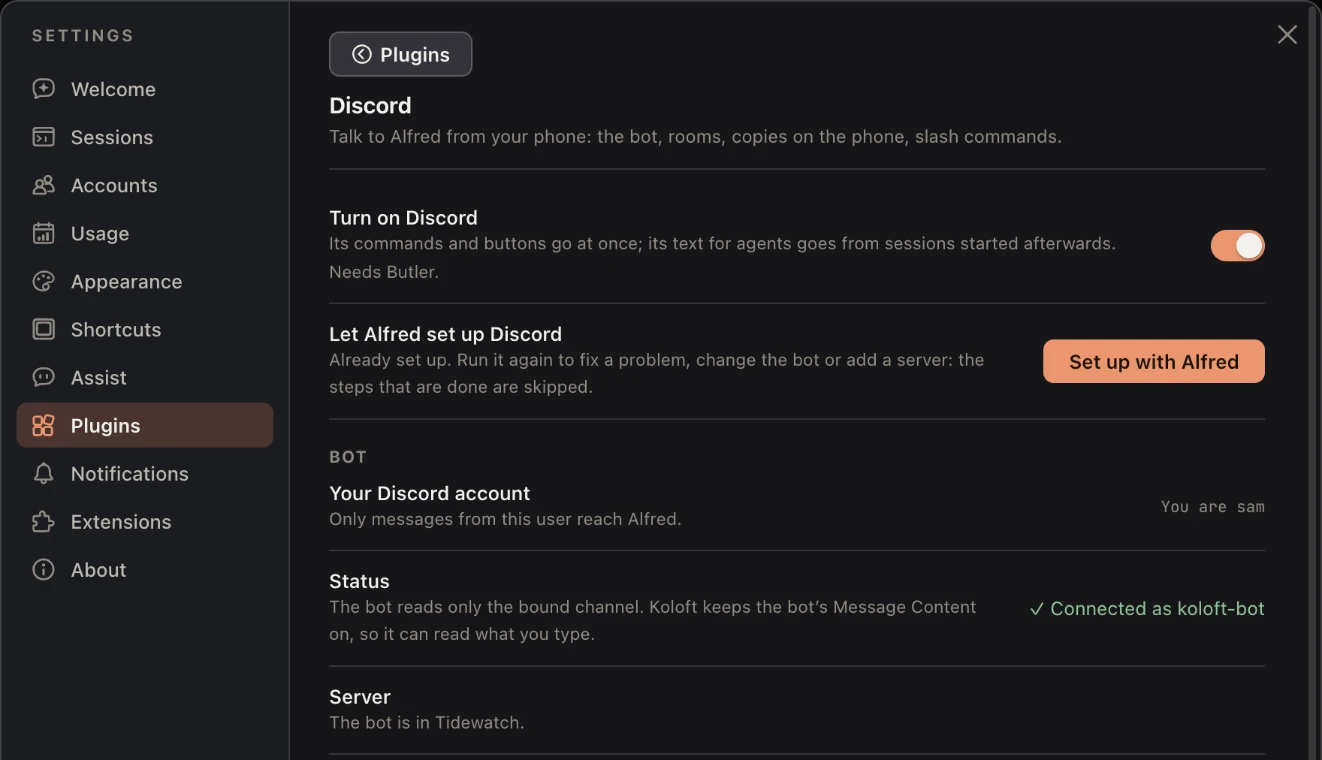
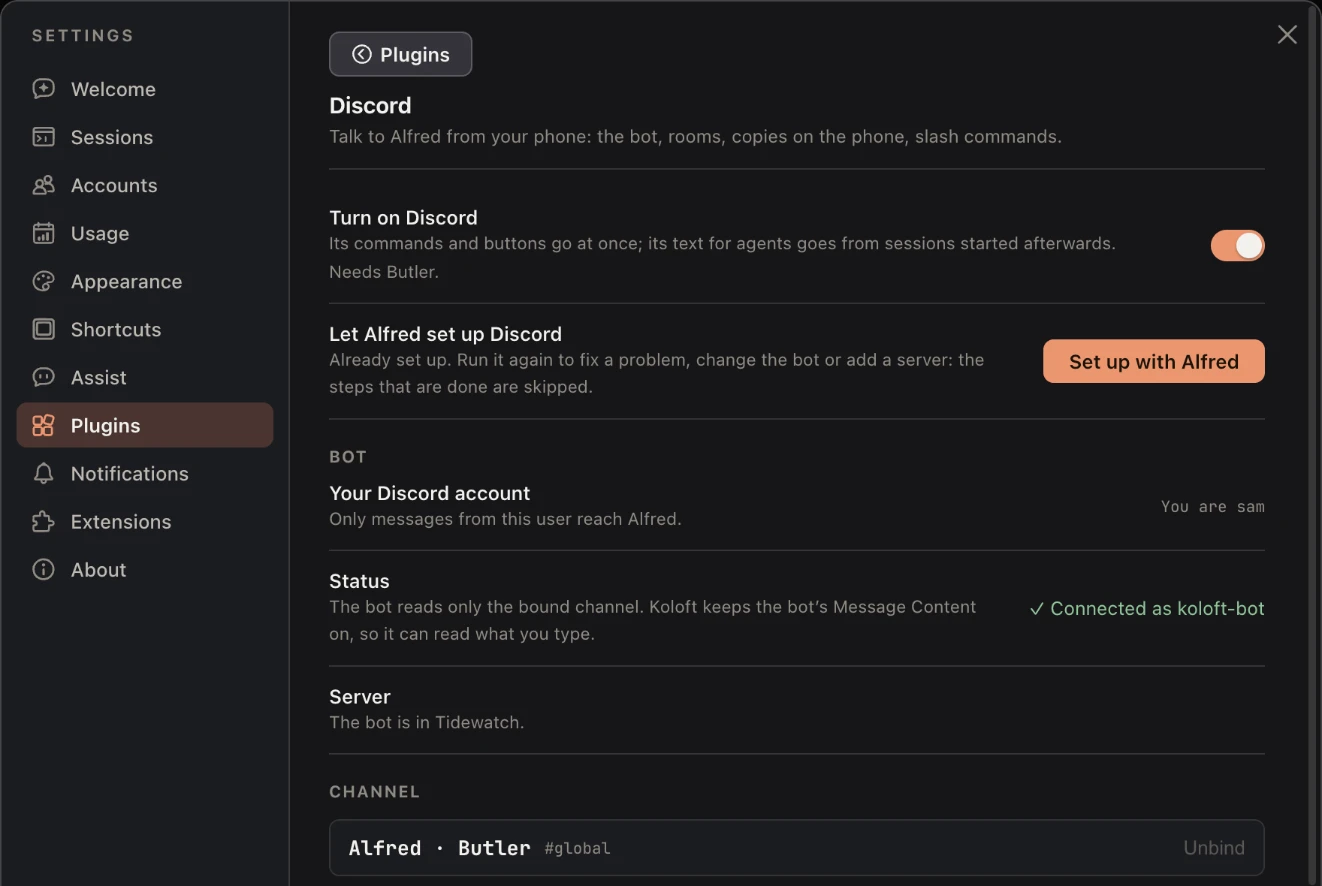
docs(site): review fixes: Plugins gets its own section, folder Instructions its own item, the ⏸ mark on any light, new Discord and phone Usage shots

diff --git a/site/sessions/index.html b/site/sessions/index.html
@@ -153,15 +153,19 @@
             starts without it. The same box has a place for rules: how this folder's agents pick the
             model and thinking of a session they start (see <a href="../agents/">agents</a>). Left
             empty, they use Koloft's own pick. Every agent gets this, on your Mac and in a
-            <a href="../remote/">remote folder</a>. Last in the box is <code>Instructions</code>:
-            write what every session in this folder should follow. Each new session that starts
-            there after you save gets it, at the end of the text Koloft gives its agent, under
-            "Written by the owner for this workspace". A session you resume may keep the text it
-            started with. That counts for every agent, on your Mac and in a remote folder, for
-            sessions an agent starts too, but not for your <a href="../accounts/#butler">butler</a>.
-            Where the project's own <code>AGENTS.md</code> or <code>CLAUDE.md</code> says otherwise,
-            an agent may follow that file instead. The rules and the instructions share one limit of
-            10,000 bytes; the box shows how much is left.
+            <a href="../remote/">remote folder</a>.
+          </li>
+          <li id="instructions">
+            Last in the <code>Session defaults…</code> box is <code>Instructions</code>: write what
+            every session in this folder should follow. Each new session that starts there, or in
+            another copy of the same repository, after you save gets it, at the end of the text
+            Koloft gives its agent, under "Written by the owner for this workspace". The
+            instructions count for every agent, on your Mac and in a remote folder, for sessions an
+            agent starts too, but not for your butler, which has
+            <a href="../accounts/#butler-instructions">its own</a>. A session you resume may keep
+            the text it started with. Where the project's own <code>AGENTS.md</code> or
+            <code>CLAUDE.md</code> says otherwise, an agent may follow that file instead. The rules
+            and the instructions share one limit of 10,000 bytes; the box shows how much is left.
           </li>
           <li>Click an old row to resume that session.</li>
           <li id="sleep">
@@ -227,10 +231,10 @@
                 </td>
               </tr>
               <tr>
-                <td>green with <code>⏸ N</code></td>
+                <td>any light with <code>⏸ N</code></td>
                 <td>
-                  its turn is done, and N things it started are still there in the background: a
-                  server, a watcher or a scheduled task, a helper with nothing to do yet, or a
+                  N things it started sit in the background, not working right now: a server, a
+                  watcher or a scheduled task, a helper or a command with nothing to do yet, or a
                   program it left running. Hover the mark to see them.
                 </td>
               </tr>
@@ -270,8 +274,9 @@
         <ul class="dash">
           <li>
             A small <mark class="hl">red dot</mark> after a session's name means it is calling you:
-            its turn is done, it waits for your OK, or it quit on its own. Hover the dot to see
-            which. It sits beside the light; it does not replace it.
+            its turn is done, it waits for your OK (or for a password, a code or a sign-in that has
+            no card on Discord), or it quit on its own. Hover the dot to see which. It sits beside
+            the light; it does not replace it.
           </li>
           <li>
             Looking at the session does not clear the dot. It goes when the session works again: you
@@ -368,7 +373,8 @@
         </div>
         <ul class="dash">
           <li>
-            When Koloft cannot read what a session asks, its card says
+            When Koloft cannot read what a session asks, or the session asks for a password, a code
+            or a sign-in that has no card on Discord, its card says
             <code>“…” is waiting for you in its tab</code>, and <code>Open session</code> takes you
             there. Every card Koloft puts there has that link.
           </li>
@@ -837,7 +843,10 @@
           </li>
           <li>
             <a href="#session-defaults">Session defaults…</a>
-            <span class="why">— the model and thinking its new sessions start on</span>
+            <span class="why"
+              >— the model and thinking its new sessions start on, and
+              <a href="#instructions">instructions</a> for them</span
+            >
           </li>
           <li>
             <a href="../scheduled/">Scheduled jobs…</a>

diff --git a/site/discord/index.html b/site/discord/index.html
@@ -140,8 +140,8 @@ your Mac
         <h2 id="set-up">Set it up</h2>
         <p>
           Open Settings ▸ Plugins ▸ Discord and click <code>Set up with Alfred</code> (the button
-          carries your butler's name). Until Discord is set up, its row in Settings ▸ Plugins has
-          the same button. Or type "set up Discord" in <kbd>⌘P</kbd> (this needs
+          carries your butler's name). While Discord has never been set up, its row in Settings ▸
+          Plugins has the same button. Or type "set up Discord" in <kbd>⌘P</kbd> (this needs
           <a href="../accounts/#assist">Assist</a> to read your words in time; that link says what
           happens when it does not). Koloft starts a helper of your butler. It runs on your butler's
           agent. If that agent is switched off in Settings ▸ Sessions, it runs on your default agent
@@ -177,13 +177,13 @@ your Mac
           Koloft also needs to know who you are. If the bot's app is yours alone, Koloft already
           knows: it is the app's owner. If a team owns the app, send any message in your server,
           like "hi". It shows up in Settings ▸ Plugins ▸ Discord with the sender's name. Click This
-          is me (or Not me). After that, Settings ▸ Plugins ▸ Discord shows your Discord account
-          ("Only messages from this user reach Alfred."), the status ("The bot reads only the bound
-          channel."), the server, and the channel. Click Set up with Alfred again any time to fix a
-          problem: the steps that are done are skipped.
+          is me (or Not me). After that, the page shows your Discord account ("Only messages from
+          this user reach Alfred."), the status ("The bot reads only the bound channel."), the
+          server, and the channel. Click Set up with Alfred again any time to fix a problem: the
+          steps that are done are skipped.
         </p>
 
-        <figure class="shot" style="--ar: 1322 / 760; --ar-phone: 790 / 1236">
+        <figure class="shot" style="--ar: 1322 / 886; --ar-phone: 790 / 1236">
           <div class="frame">
             <picture>
               <source
@@ -195,15 +195,15 @@ your Mac
               <img
                 src="../img/r-discord-settings5.webp"
                 width="1322"
-                height="760"
+                height="886"
                 loading="lazy"
-                alt="Koloft's Settings, the Discord page inside Plugins: a ‹ Plugins button to go back; Turn on Discord, switched on; a Set up with Alfred button, under Let Alfred set up Discord; your Discord account, You are sam; status, Connected as koloft-bot; and server, The bot is in Tidewatch."
+                alt="Koloft's Settings, the Discord page inside Plugins: a ‹ Plugins button to go back; Turn on Discord, switched on; a Set up with Alfred button, under Let Alfred set up Discord; your Discord account, You are sam; status, Connected as koloft-bot; server, The bot is in Tidewatch; and the channel, Alfred · Butler on #global, with Unbind."
               />
             </picture>
           </div>
           <figcaption>
-            Settings ▸ Plugins ▸ Discord, all set up: your account, the bot connected, and its
-            server
+            Settings ▸ Plugins ▸ Discord, all set up: your account, the bot connected, and your
+            butler's channel
           </figcaption>
         </figure>
 
@@ -380,7 +380,9 @@ your Mac
           Some things only you know, and they should not sit in a chat. When a session needs one, it
           asks in its own tab in Koloft (see <a href="../agents/#secrets">how the agent asks</a>).
           While you are away, or talking to that session from Discord, a 🔑 card comes too: to the
-          session's <a href="#rooms">room</a> if it has one, or else to your butler's channel. It is
+          session's <a href="#rooms">room</a> if it has one, or else to your butler's channel. If
+          Discord does not take the card within a minute, Koloft also marks the session as waiting
+          for you at the Mac (see <a href="../agents/#secrets">how the agent asks</a>). The card is
           headed with the session's name and its folder:
         </p>
         <ul class="dash">

diff --git a/site/agents/index.html b/site/agents/index.html
@@ -166,7 +166,7 @@
           you are away from the Mac, or talking to that session from Discord, a card comes to
           Discord too (see <a href="../discord/#secrets">passwords and codes on Discord</a>), and
           the first answer wins. The other one closes. With no Discord set up, or when Discord does
-          not take the card within a minute, the box and the bar still work, and the session waits
+          not take the card within a minute, the box and the bar still work. The session then waits
           for you at the Mac the way it does when you are there: a
           <a href="../sessions/#red-dots">red dot</a> on its row and a card in the
           <a href="../sessions/#inbox">Inbox</a>. Koloft does this the same way for every agent, on
@@ -349,6 +349,12 @@
           picture of a page. See <a href="../accounts/#what-it-can-do">what your butler can do</a>.
         </p>
 
+        <h2 id="plugins">Settings ▸ Plugins</h2>
+        <p>
+          Settings ▸ Plugins lists each part of Koloft as a plugin, under the
+          <code>Let agents use Koloft</code> switch. Click a row's › to open that plugin's own page,
+          where its settings are (Discord's, for one).
+        </p>
         <figure class="shot" style="--ar: 1322 / 687; --ar-phone: 790 / 1000">
           <div class="frame">
             <picture>
@@ -371,17 +377,26 @@
             Settings ▸ Plugins: "Let agents use Koloft" on top, then every part of Koloft
           </figcaption>
         </figure>
-        <p id="plugins">
-          Settings ▸ Plugins lists each part of Koloft as a plugin. Six are
-          <code>Always on</code>: Sessions core, Workbench, Browser control, Butler, Inbox and
-          Scheduled tasks. The rest are <code>Optional</code>, each with a switch: GitHub, Discord,
-          Todo, Passwords and sign-in, and Docs writing. Click a row's › to open that plugin's own
-          page, where its settings are (Discord's, for one). Today the switch that does something is
-          Todo's. Turn Todo off and <code>koloft todo</code> is refused in every session at once,
-          with <code>koloft: Todo is turned off in Settings ▸ Plugins.</code> Sessions you start
-          after that are not told about it. Todo needs GitHub, so turning GitHub off turns Todo off
-          too.
-        </p>
+        <ul class="dash">
+          <li>
+            <code>Always on</code>: Sessions core, Workbench, Browser control, Butler, Inbox and
+            Scheduled tasks
+          </li>
+          <li>
+            <code>Optional</code>, each with a switch: GitHub, Discord, Todo, Passwords and sign-in,
+            and Docs writing
+          </li>
+          <li>
+            Today the switch that does something is Todo's. Turn Todo off and
+            <code>koloft todo</code> is refused in every session at once, with
+            <code>koloft: Todo is turned off in Settings ▸ Plugins.</code> Sessions you start after
+            that are not told about it
+          </li>
+          <li>
+            Todo needs GitHub, so turning GitHub off turns Todo off too. Then the refusal reads
+            <code>koloft: Todo is off because GitHub is turned off in Settings ▸ Plugins.</code>
+          </li>
+        </ul>
 
         <h2 id="docs">A skill for writing documents</h2>
         <p>

diff --git a/site/accounts/index.html b/site/accounts/index.html
@@ -328,7 +328,7 @@
             <picture>
               <source
                 media="(max-width: 760px)"
-                srcset="../img/w-settings-usage-phone.webp"
+                srcset="../img/w-settings-usage-phone2.webp"
                 width="790"
                 height="1078"
               />
@@ -426,7 +426,6 @@
           <code>Pick the documents to show</code> on Workbench, and
           <code>Route what you type in ⌘P</code> and your butler on Butler. There, click the job's
           button to pick its own <code>Runs on</code>, <code>Model</code> and <code>Thinking</code>.
-          Settings ▸ Plugins ▸ Butler also has <code>Name</code>: your butler's name.
         </p>
         <p>
           Switch an agent off in Settings ▸ Sessions and the rows that picked it go back to
@@ -559,7 +558,9 @@
             butler and the helpers it starts follow it. Your butler uses it from its next fresh
             conversation (on Muse, from its next start). <code>Start a fresh conversation</code> on
             the strip asks first; <code>Start fresh</code> ends this conversation and starts a new
-            one that reads your instructions as they are now.
+            one that reads your instructions as they are now. A folder's sessions have
+            <a href="../sessions/#instructions">instructions of their own</a>, which your butler
+            does not get.
           </li>
           <li>
             When the session tab you are looking at goes away (you close it, or its agent quits
@@ -603,7 +604,7 @@
             (in your language) asks you about them one at a time, in Koloft or on
             <a href="../discord/">Discord</a>. The one exception: sessions whose work is done come
             up together, as one question: close them all, ask one by one, or leave them for now.
-            This is the Todo plugin, on unless you turn it off, or turn off GitHub, in
+            This is the Todo plugin. It is on until you turn off Todo or GitHub in
             <a href="../agents/#plugins">Settings ▸ Plugins</a>
           </li>
           <li>

diff --git a/site/features/index.html b/site/features/index.html
@@ -632,6 +632,26 @@
               >Read more <svg class="icon" aria-hidden="true"><use href="../icons.svg#arrow" /></svg
             ></a>
           </article>
+          <article class="fcard">
+            <div class="ftop">
+              <svg class="icon" aria-hidden="true"><use href="../icons.svg#pin" /></svg>
+              <h3>Your words for every session</h3>
+            </div>
+            <p>
+              Write Instructions for a folder in its Session defaults…, and every new session there
+              gets them at the end of what Koloft tells its agent. Your butler has Instructions of
+              its own.
+            </p>
+            <ul class="kinds">
+              <li class="yes">✓ Claude Code</li>
+              <li class="yes">✓ Codex</li>
+              <li class="yes">✓ Remote</li>
+            </ul>
+
+            <a class="more" href="../sessions/#instructions"
+              >Read more <svg class="icon" aria-hidden="true"><use href="../icons.svg#arrow" /></svg
+            ></a>
+          </article>
         </div>
       </section>
 
